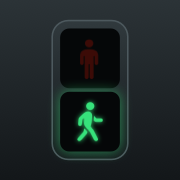
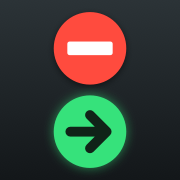
Privacy solo in italiano e nuova icona

diff --git a/privacy.html b/privacy.html
@@ -60,11 +60,6 @@
     <p>Se questa informativa cambia, la versione aggiornata è pubblicata su questa pagina, con la nuova data. Per domande: <a href="mailto:auriemmaemanuele@icloud.com">auriemmaemanuele@icloud.com</a>.</p>
   </section>
 
-  <section>
-    <h2 lang="en">In English</h2>
-    <p lang="en">Tabellone does not collect, transmit or sell personal data. It has no accounts, ads, analytics or tracking. It only talks to the cinema's own display computer on the local Wi‑Fi network. The board address, PIN and manager key are stored only on the device and are deleted with the app. The camera is used only to scan the board's QR code; images are never stored or sent.</p>
-  </section>
-
   <footer><a href="index.html">Supporto</a> · <a href="termini.html">Termini d'uso</a></footer>
 </main>
 </body>
